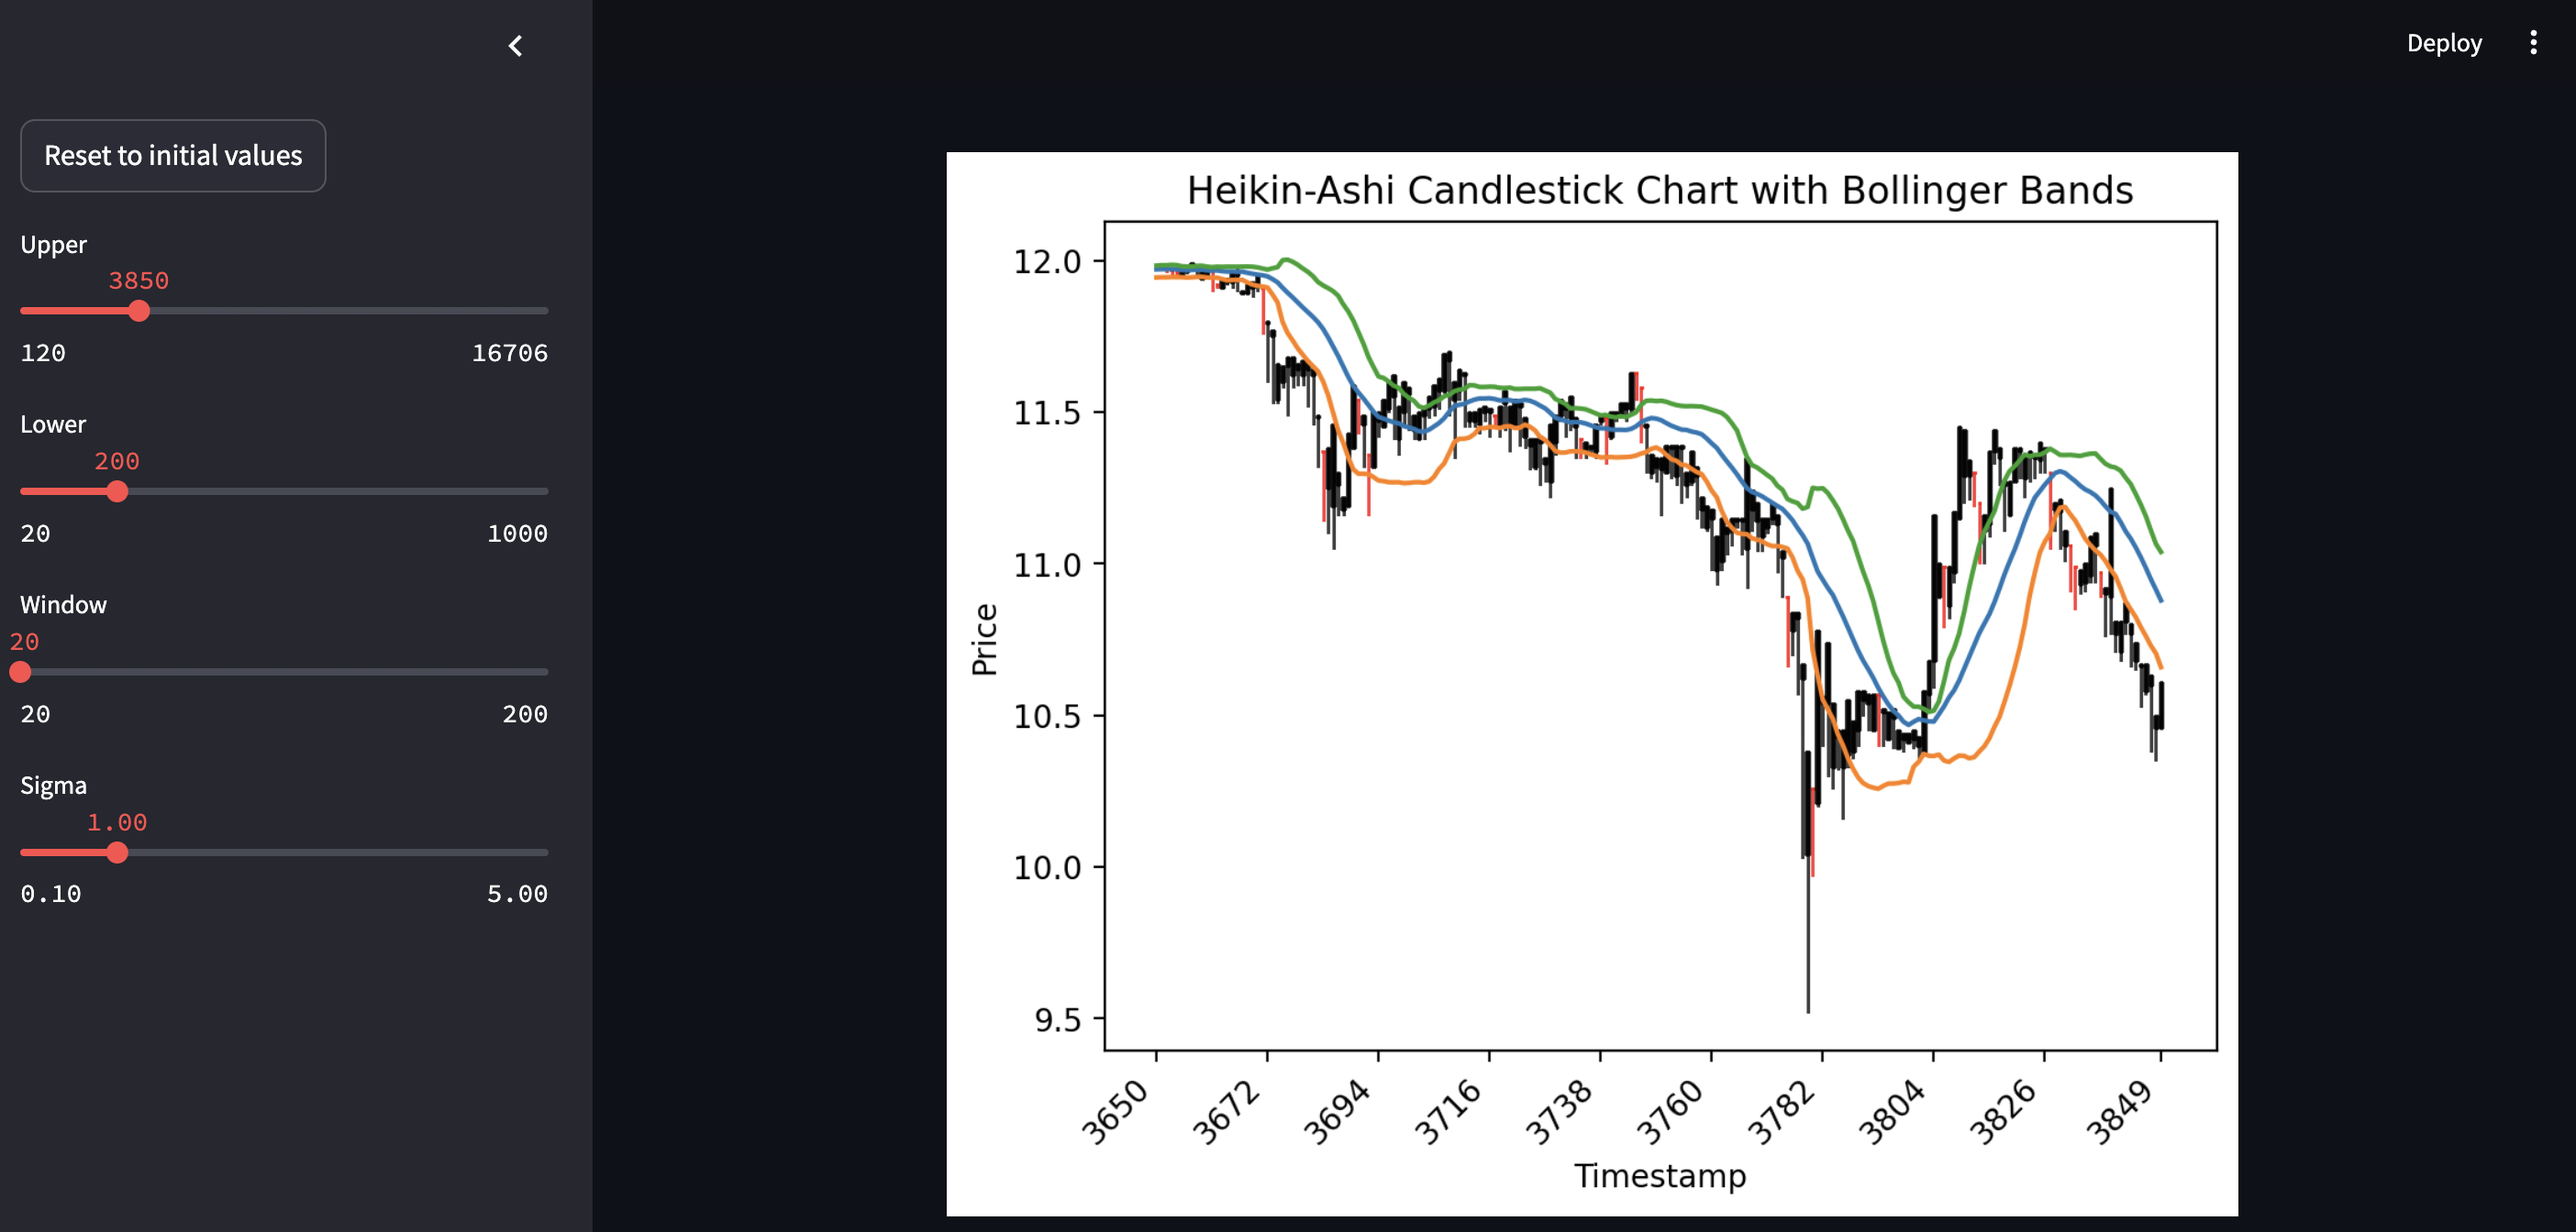
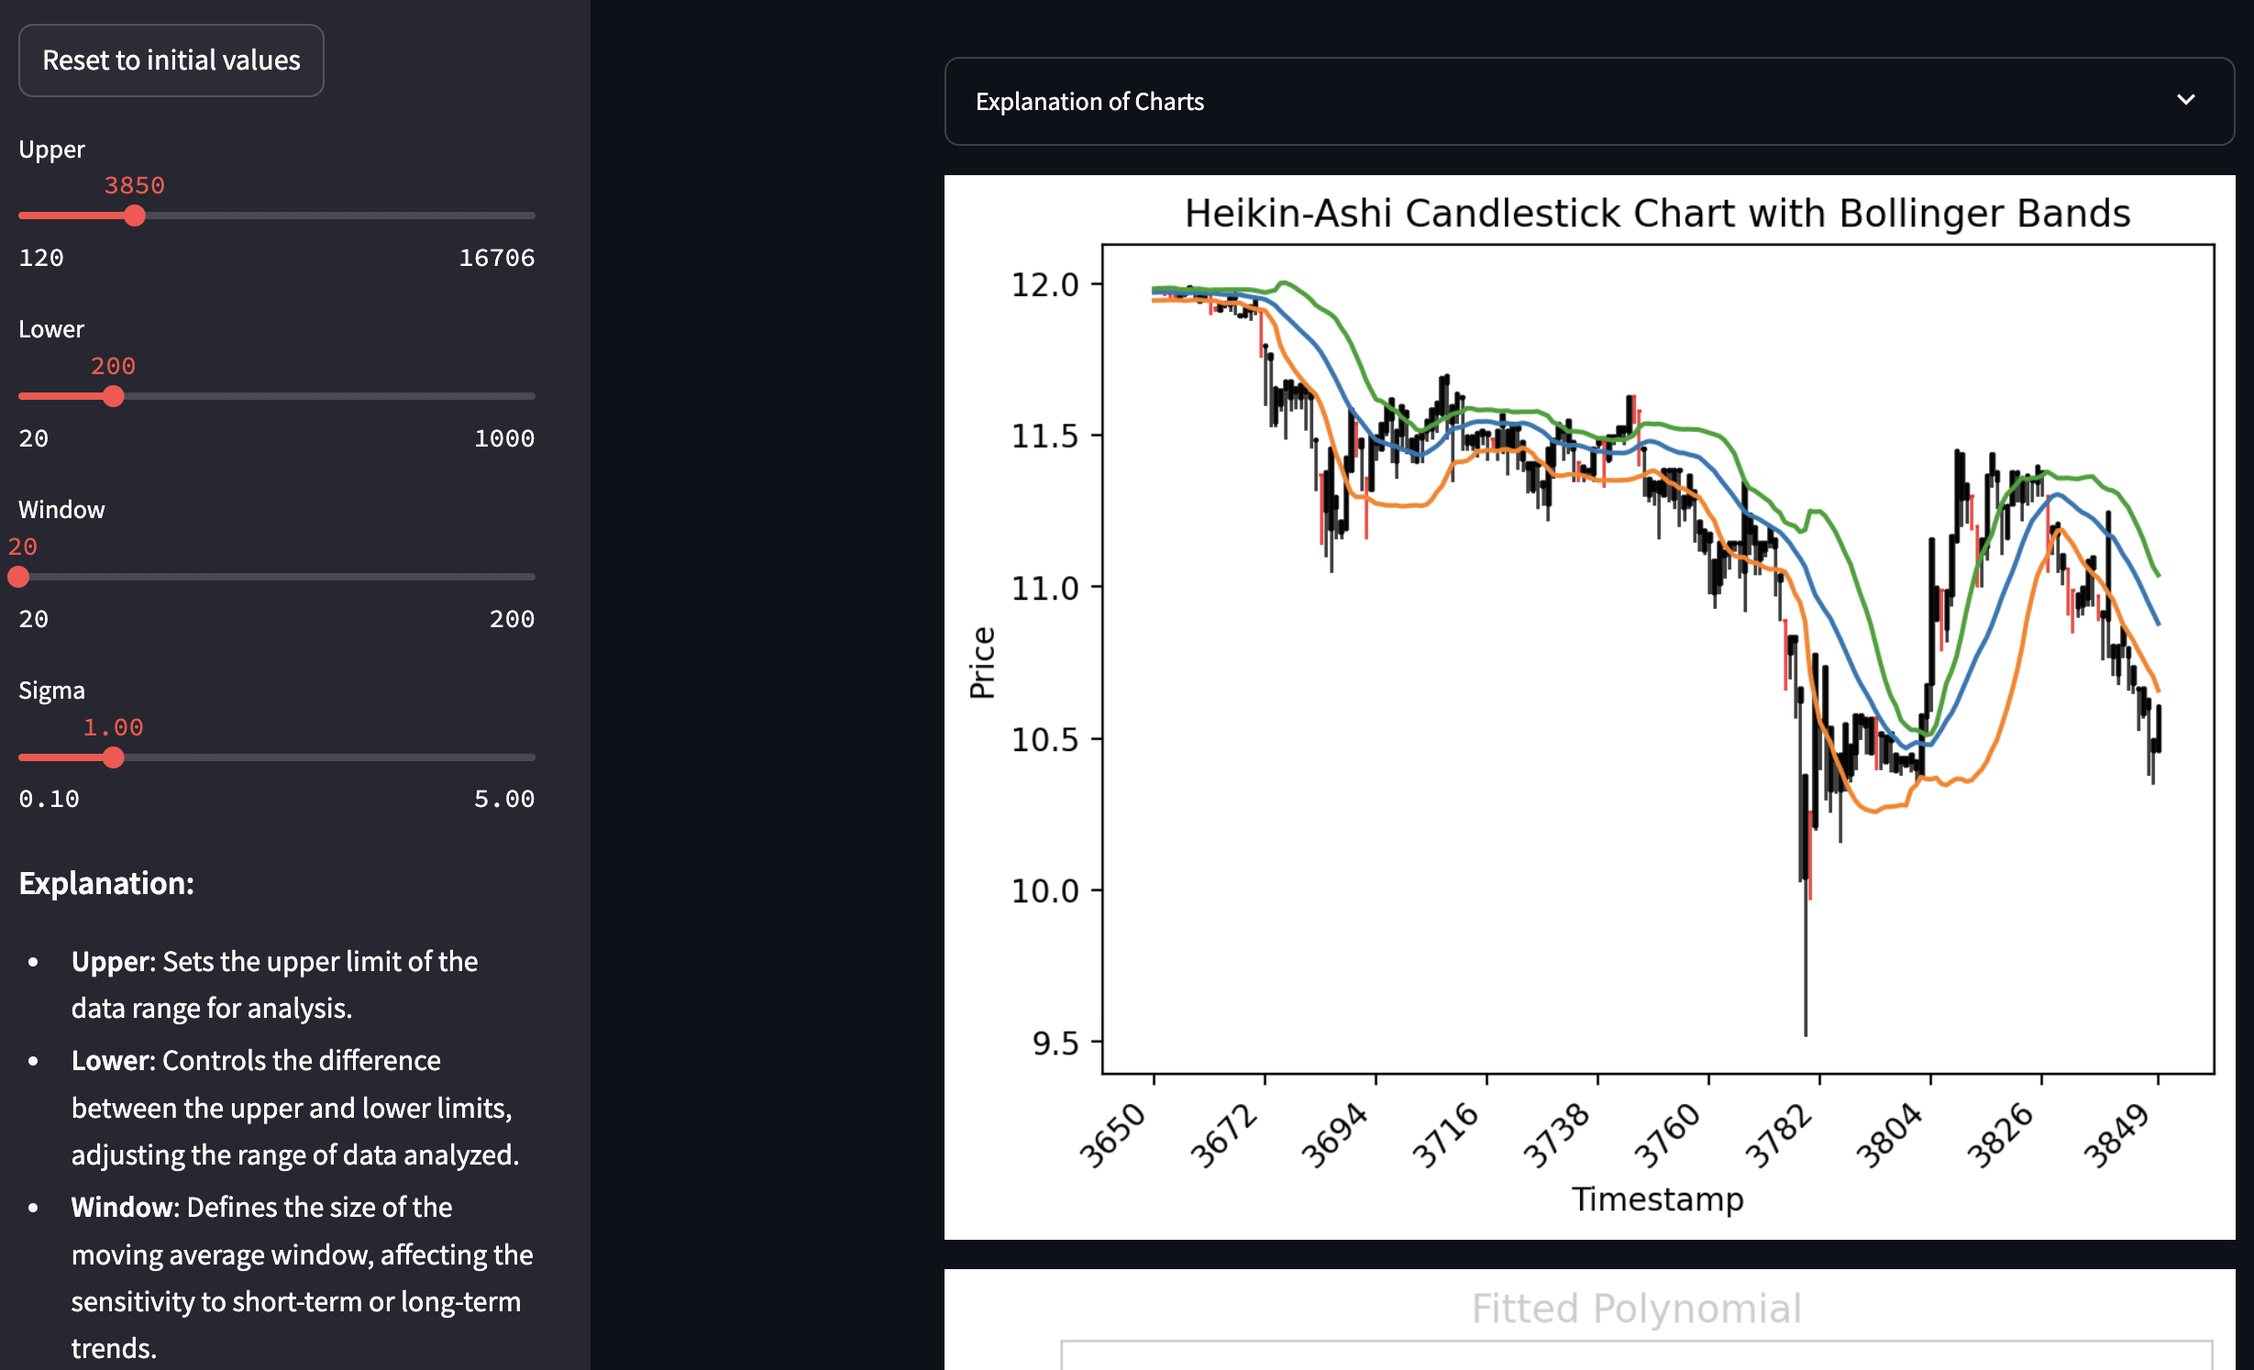
Added explanation panels to streamlit app

diff --git a/app.py b/app.py
@@ -54,13 +54,14 @@ window = st.sidebar.slider("Window", min_value=20, max_value=200, key='window')
 sigma = st.sidebar.slider("Sigma", min_value=0.1, max_value=5.0, key='sigma')
 
 # Explanation box below the sliders
-st.sidebar.markdown("""
+st.markdown("""
 ### Explanation:
 - **Upper**: Sets the upper limit of the data range for analysis.
 - **Lower**: Controls the difference between the upper and lower limits, adjusting the range of data analyzed.
 - **Window**: Defines the size of the moving average window, affecting the sensitivity to short-term or long-term trends.
 - **Sigma**: Adjusts the sensitivity for detecting significant deviations in price, with lower values detecting smaller spikes.
 """)
+
 
 # DEFINE A FUNCTION TO BE USED FOR CURVE FITTING
 # This function models the data with an exponential decay term and a polynomial of degree 3
@@ -125,18 +126,6 @@ for i in range(1, 11):
 # Fit a 10th degree polynomial to the 'Open' data
 z = np.polyfit(range(0, upper - lower), open_eth_data['Open'][lower - 1:upper - 1], 10)
 p = np.poly1d(z)
-
-
-
-# Summary Explanation in a Collapsible Section
-with st.expander("Explanation of Charts"):
-    st.markdown("""
-    - **Heikin-Ashi Chart**: A smoothed candlestick chart that filters market noise, making trends easier to spot.
-    - **10-Degree Polynomial Fit**: Displays a polynomial curve fitted to the price data, highlighting trends and patterns that might not be immediately visible.
-    - **Error of Polynomial Fit**: Shows the error between the actual data and the fitted polynomial, providing insight into the accuracy and reliability of the fit.
-    - **Moving Average Deviation**: Displays price deviations from the moving average, highlighting significant market movements.
-    """)
-
 
 # FIGURE 1: Heikin-Ashi Candlestick Chart
 fig1, ax_heikin = plt.subplots()

diff --git a/README.md b/README.md
@@ -8,9 +8,34 @@ Exploring spikes in the change of price:
 
 The script titled Plotting_moving_average.py calculates the absolute change of the crypto price per time stamp ( |High price - Low price| ) for a give time data series, this is given by the name "range". After this it calculates the moving average of the range for a given time window. The window is 20 time steps of the time series data time step which for this example is 1 hour. We calculate this for every single point in time.
 
-# Streamlit App
+## Streamlit App
 
-There is a Streamlit application that provides an interactive control panel with sliders. You can reset the sliders to their initial values by pressing a button.
+The repository includes a Streamlit application that provides an interactive and intuitive control panel, allowing users to explore and analyze cryptocurrency market data with adjustable parameters.
+
+### Features and Controls
+
+The Streamlit app offers the following controls:
+
+1. **Upper Value Slider** (`Upper`):
+   - **Purpose**: This slider allows the user to set an upper limit for the dataset range they want to analyze.
+   - **Functionality**: By adjusting this slider, users can focus on a specific upper bound of the data, effectively narrowing down the range of historical data they are examining. This is particularly useful for focusing on more recent data or a specific time period.
+
+2. **Difference Slider** (`Lower`):
+   - **Purpose**: This slider sets the difference (or range) between the upper limit and a derived lower limit.
+   - **Functionality**: Users can control the span of data they wish to analyze by adjusting the difference between the upper and lower bounds. This helps in zooming into specific intervals of data where significant changes might have occurred.
+
+3. **Window Size Slider** (`Window`):
+   - **Purpose**: This slider allows the user to set the size of the moving window for calculating the moving average of the price range.
+   - **Functionality**: By adjusting the window size, users can analyze the data with different levels of smoothness. A smaller window size will make the analysis more sensitive to short-term fluctuations, while a larger window size will smooth out these fluctuations, highlighting longer-term trends.
+
+4. **Sigma Slider** (`Sigma`):
+   - **Purpose**: This slider controls the sensitivity of the deviation analysis, particularly influencing the threshold for detecting significant deviations from the moving average.
+   - **Functionality**: Users can adjust the `Sigma` value to fine-tune the detection of price spikes. A lower sigma value makes the system more sensitive to minor deviations, while a higher value focuses only on major deviations. This is useful for identifying significant market events or price anomalies.
+
+### Interactive Analysis
+
+- **Real-Time Adjustments**: As users adjust these sliders, the app recalculates the moving averages, deviations, and any other relevant metrics in real-time. This allows users to see immediate feedback and understand how different parameters affect the analysis.
+- **Reset Functionality**: Users can reset all the sliders to their initial default values with a single button click, allowing for a quick return to the baseline settings.
 
 ## Requirements
 
@@ -47,6 +72,8 @@ To run the app, execute the following command in your terminal where app.py and 
 ```bash
 streamlit run app.py
 ```
+
+## Other scripts
 
 Following this we analyze point by point comparing if it deviates significantly from the mean of the previous specified time window. For this a sigmoind function of the form 1/(1 + exp((Intensity * Mean_of_the_previous_time_window) - x) is used, where x is the point being analyzed. In this example the varaible Intensity serves as a way to determine how significant the deviation should be. All points that make this function have a value higher than 0.5 are recorded for an Intensity equal to 4.
 
